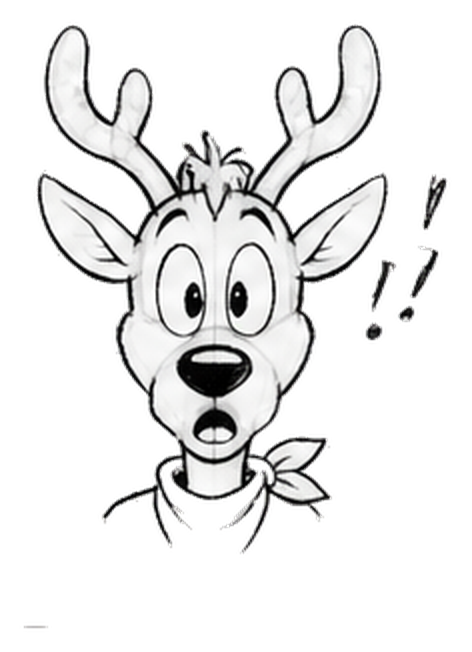
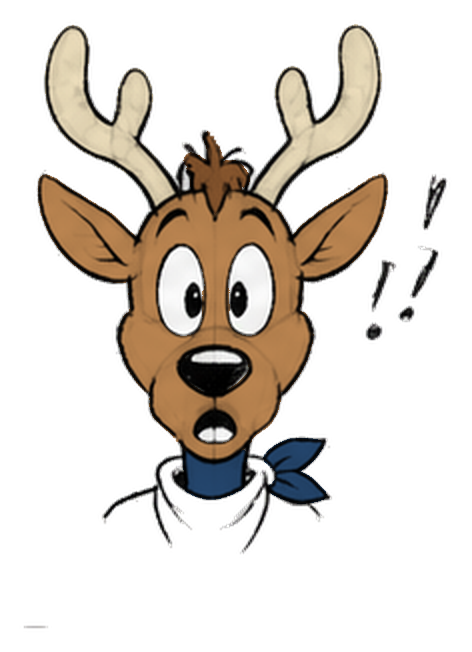
Color Ridge, fix clipped Muse lettering, update labels
- Ridge poses colored (fur, antlers, safety vest, bandana, boots) over the original linework
- Rosé Muse: more room around the script lettering so the M swash isn't clipped
- Our work card: 'Optimized for mobile'
- Game header: StoneRiver Energy Services

Claude-Session: https://claude.ai/code/session_01DDQ1UUeU6HmRXFRnWFhCrn

Changed region(s): [[0.0593, 0.0307, 0.8305, 0.7669]]

diff --git a/index.html b/index.html
@@ -203,14 +203,14 @@ header nav a{min-height:44px;display:inline-flex;align-items:center}
 <article style="border: 2px solid #EFE7D4; border-radius: 20px; overflow: hidden; display: flex; flex-direction: column">
 <div style="background: #0A0507; min-height: 280px; display: flex; flex-direction: column; align-items: center; justify-content: center; gap: 4px; padding: 32px 20px; border-bottom: 2px solid #EFE7D4; text-align: center">
 <span style="font-family: 'Italiana', serif; font-size: 18px; letter-spacing: 0.9em; margin-right: -0.9em; color: #FFD6E7">ROSÉ</span>
-<span style="font-family: 'Carattere', cursive; font-size: 104px; line-height: 1.1; color: #F2A7C3">Muse</span>
+<span style="font-family: 'Carattere', cursive; font-size: 104px; line-height: 1.1; color: #F2A7C3; padding: 0 0.3em">Muse</span>
 <span style="font-size: 12px; letter-spacing: 0.42em; text-transform: uppercase; color: #FFB8D3">Makeup artistry that shines</span>
 <span style="margin-top: 18px; background: #F7A2C6; color: #2A0614; border-radius: 999px; padding: 12px 28px; font-size: 12px; font-weight: 600; letter-spacing: 0.3em; text-transform: uppercase">Book your glam</span>
 </div>
 <div style="padding: 28px; display: flex; flex-direction: column; gap: 12px; flex: 1">
 <p style="margin: 0; font-size: 13px; font-weight: 600; letter-spacing: 0.28em; text-transform: uppercase; opacity: 0.8">Website · Beauty</p>
 <h3 style="margin: 0; font-family: 'Anton', sans-serif; font-weight: 400; font-size: 34px; text-transform: uppercase; line-height: 1.05">Rosé Muse</h3>
-<p style="margin: 0; opacity: 0.85">A booking site for a makeup artist: service menu with prices, photo gallery, artist bio and a booking request form. Built to look great on a phone.</p>
+<p style="margin: 0; opacity: 0.85">A booking site for a makeup artist: service menu with prices, photo gallery, artist bio and a booking request form. Optimized for mobile.</p>
 <p style="margin: 0; font-size: 14px; opacity: 0.7">Demo brand. Rosé Muse is fictional.</p>
 <a href="work/rose-muse/" data-goatcounter-click="work-rose-muse" style="margin-top: auto; align-self: flex-start; text-decoration: none; border: 2px solid #EFE7D4; border-radius: 999px; padding: 12px 22px; min-height: 48px; box-sizing: border-box; display: inline-flex; align-items: center; font-weight: 600; letter-spacing: 0.06em; text-transform: uppercase; font-size: 14px">See the site</a>
 </div>

diff --git a/work/rose-muse/index.html b/work/rose-muse/index.html
@@ -36,7 +36,7 @@
   .wrap{max-width:1320px;margin:0 auto;padding:0 40px}
   .caps{font-size:12px;letter-spacing:.42em;text-transform:uppercase;font-weight:400}
   .italiana{font-family:'Italiana',serif;font-weight:400}
-  .chrome{font-family:'Carattere',cursive;font-weight:400;background:var(--chrome);-webkit-background-clip:text;background-clip:text;color:transparent;filter:drop-shadow(0 2px 0 #FFE3EE) drop-shadow(0 14px 26px rgba(224,71,138,.4));padding:0 .08em .28em;line-height:1}
+  .chrome{font-family:'Carattere',cursive;font-weight:400;background:var(--chrome);-webkit-background-clip:text;background-clip:text;color:transparent;filter:drop-shadow(0 2px 0 #FFE3EE) drop-shadow(0 14px 26px rgba(224,71,138,.4));padding:.06em .32em .3em;margin:0 -.24em;line-height:1}
 
   /* glitter + sparkles */
   .glitter{position:absolute;inset:0;pointer-events:none;background-image:

diff --git a/work/ridge-safety-crew/index.html b/work/ridge-safety-crew/index.html
@@ -137,7 +137,7 @@ h2 { font-size: clamp(24px, 4vw, 32px); }
 <div class="tape" aria-hidden="true"></div>
 <main>
   <div class="brand">
-    <a class="co" href="../../#work">STONERIVER</a>
+    <a class="co" href="../../#work">STONERIVER ENERGY SERVICES</a>
     <div class="progress" id="progress"></div>
   </div>
   <section class="card" aria-live="polite">
